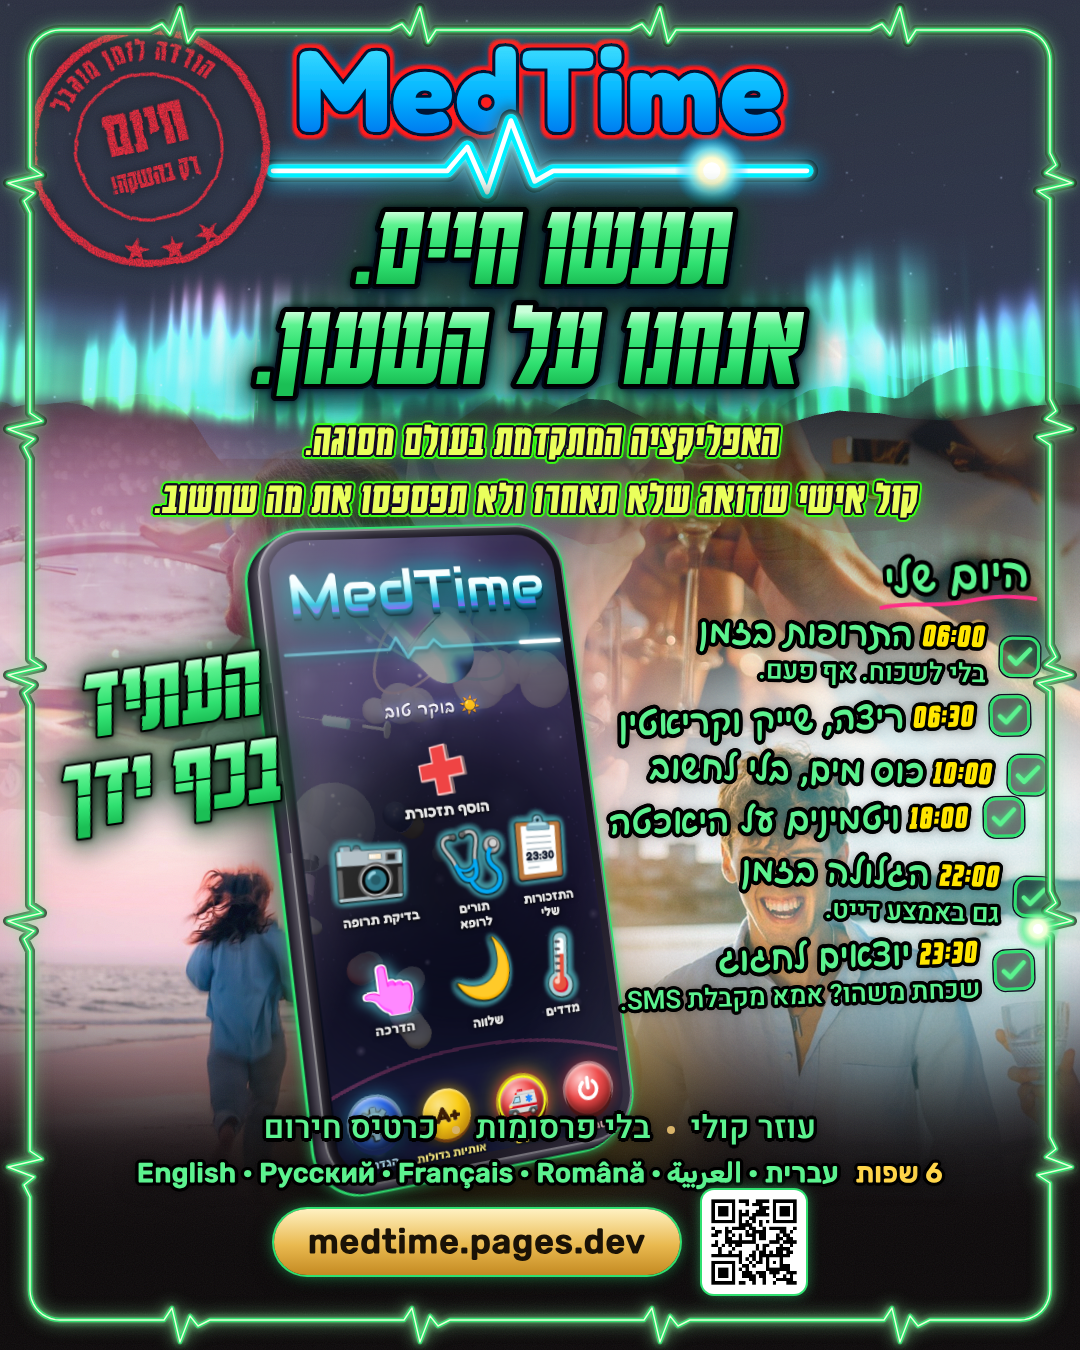
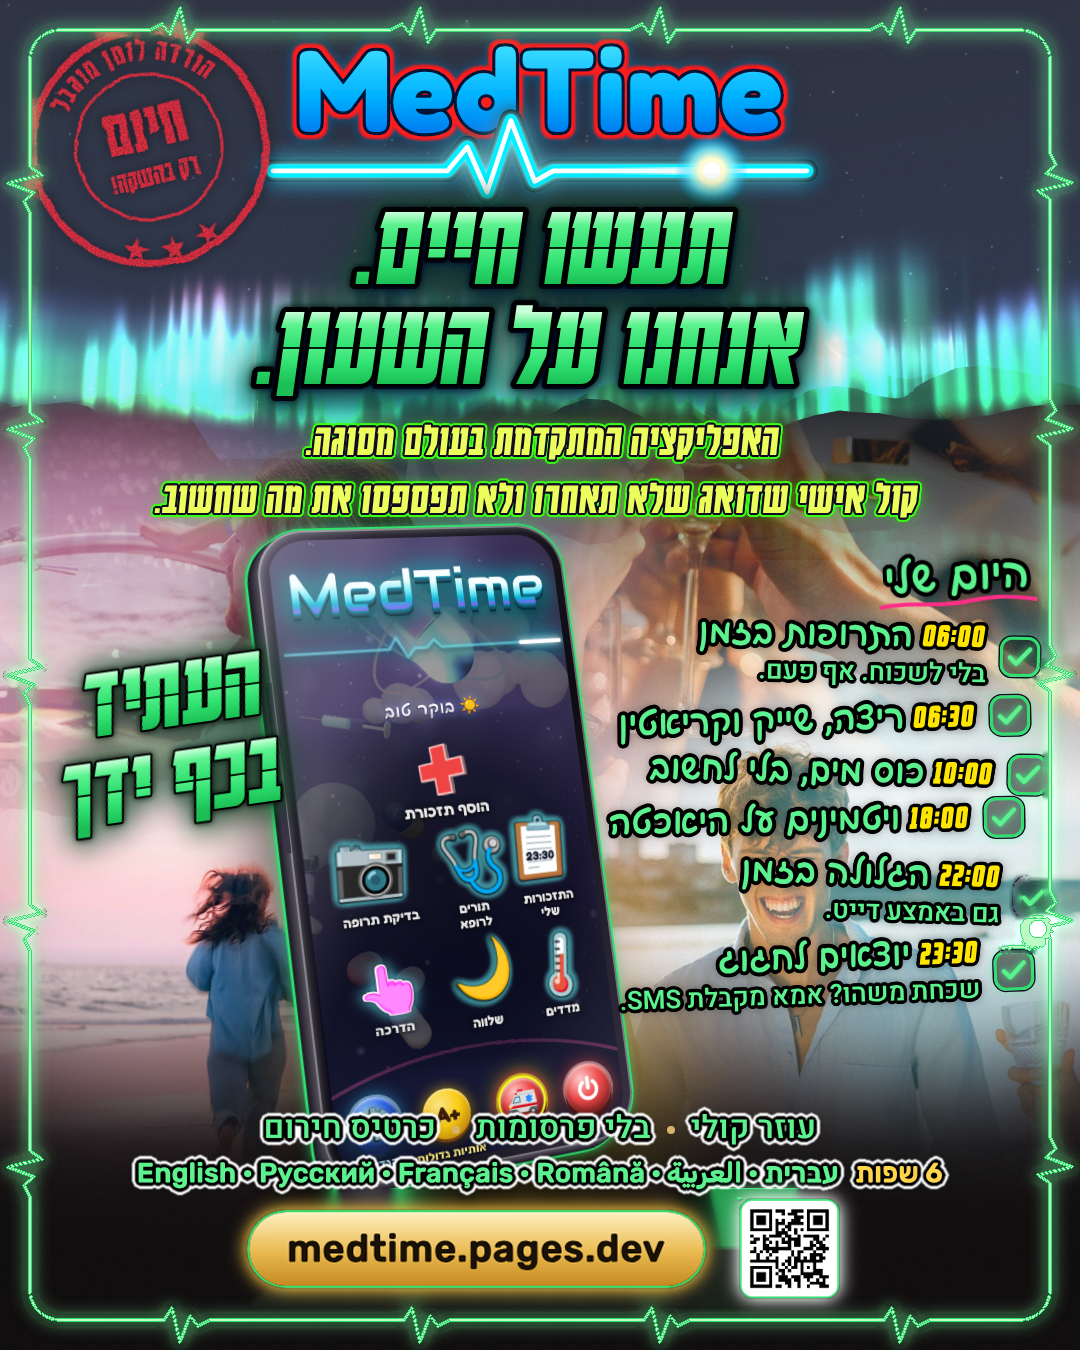
Ad: thinner frame, bigger URL+QR, white outline on bottom rows; signed SYNC-LOG [skip ci]
Account: main · thread 'MedTime – שיחה חדשה'

Claude-Session: https://claude.ai/code/session_01VsxPbo6X9KYMbXyBhgnXSS

diff --git a/media/ads/src/premium_fix1.py b/media/ads/src/premium_fix1.py
@@ -1,0 +1,89 @@
+# Edits media/ads/MedTime-ad-premium.png in place (Roni's requests 2026-10-23):
+# 1) thinner neon frame, 2) URL pill + QR bigger and glowing, below the language row,
+# 3) white outline around the letters of the two bottom text rows.
+# Input: the PNG from commit ddc63a0. Run: python3 premium_fix1.py IN.png OUT.png
+import sys, numpy as np, cv2
+from scipy import ndimage as nd
+src, out = sys.argv[1], sys.argv[2]
+img = cv2.imread(src)[:, :, ::-1].astype(np.float32)  # RGB
+H, W = img.shape[:2]
+a = img.astype(int); r, g, b = a[..., 0], a[..., 1], a[..., 2]
+
+def disk(n):
+    y, x = np.ogrid[-n:n+1, -n:n+1]; return x*x + y*y <= n*n
+
+# ---- 2) cut out pill and QR (before anything else changes) ----
+P = (264, 1199, 690, 1285)    # pill box incl. green rim
+Q = (697, 1186, 811, 1300)    # QR card
+pill = img[P[1]:P[3], P[0]:P[2]].copy(); qr = img[Q[1]:Q[3], Q[0]:Q[2]].copy()
+def shape_alpha(c):
+    lum = c.mean(2); m = lum > 70; m = nd.binary_fill_holes(m)
+    m = nd.binary_opening(m, disk(1))
+    return cv2.GaussianBlur(m.astype(np.float32), (3, 3), 0)
+pa, qa = shape_alpha(pill), shape_alpha(qr)
+
+# ---- 3) text masks of the two bottom rows (before inpainting) ----
+rows = np.zeros((H, W), bool); rows[1108:1194, 90:1000] = True
+green = (np.abs(a - [92, 242, 143]).sum(2) < 60) & rows
+yrow = np.zeros((H, W), bool); yrow[1155:1194, 840:960] = True
+yellow = (np.abs(a - [255, 213, 74]).sum(2) < 60) & yrow
+txt = green | yellow
+tl, tn = nd.label(txt, np.ones((3, 3))); ts = nd.sum(txt, tl, range(1, tn+1))
+txt = np.isin(tl, np.nonzero(ts >= 6)[0] + 1)
+letters = nd.binary_dilation(txt, disk(4))          # fill + black outline
+
+# ---- 1) frame mask ----
+fm = ((g > 150) & (g - r > 40) & (g - b > 20)) | ((g > 235) & (r > 120) & (g - r > 30))
+lab, n = nd.label(fm, np.ones((3, 3)))
+frame = lab == (np.argmax(nd.sum(fm, lab, range(1, n+1))) + 1)
+core = frame & (r > 120) & (g > 235)
+
+# ---- inpaint old frame line + old pill/QR area ----
+hole = nd.binary_dilation(frame, disk(1)) | (nd.binary_dilation(frame, disk(5)) & (g - r > 12) & (g - b > 0))
+area = np.zeros((H, W), bool); area[1189:1306, 250:830] = True
+oldglow = (g - r > 25) & (g > 60)
+hole |= area & ~letters
+u8 = np.clip(img, 0, 255).astype(np.uint8)[:, :, ::-1]
+fixed = cv2.inpaint(u8, hole.astype(np.uint8)*255, 6, cv2.INPAINT_TELEA)[:, :, ::-1].astype(np.float32)
+# keep the old frame where it lies inside the pill/QR area (bottom line), it is redrawn below
+img = fixed
+
+def over(base, col, alpha):
+    al = alpha[..., None]; return base*(1-al) + np.array(col, np.float32)*al
+
+# new thin frame: soft glow + 2px white core with 1px green rims
+cf = core.astype(np.float32)
+glow = cv2.GaussianBlur(nd.binary_dilation(core, disk(1)).astype(np.float32), (0, 0), 5) * 0.9
+img = img + np.array([40, 220, 110], np.float32)[None, None]*np.clip(glow, 0, 1)[..., None]*0.55
+img = over(img, (46, 224, 112), nd.binary_dilation(core, disk(1)).astype(np.float32))
+img = over(img, (190, 250, 195), cf)
+
+# ---- 3) white ring around letters, then put the letters back on top ----
+ring_out = nd.binary_dilation(letters, disk(3))
+ringA = cv2.GaussianBlur(ring_out.astype(np.float32), (3, 3), 0)
+orig = cv2.imread(src)[:, :, ::-1].astype(np.float32)
+img = over(img, (255, 255, 255), ringA)
+la = cv2.GaussianBlur(letters.astype(np.float32), (3, 3), 0)
+img = img*(1-la[..., None]) + orig*la[..., None]
+
+# ---- 2) paste bigger pill + QR with glow ----
+def paste(img, c, al, x, y, s, gcol, gstr):
+    h, w = c.shape[:2]; nw, nh = int(round(w*s)), int(round(h*s))
+    c2 = cv2.resize(c, (nw, nh), interpolation=cv2.INTER_CUBIC); a2 = cv2.resize(al, (nw, nh))
+    big = np.zeros((H, W), np.float32); big[y:y+nh, x:x+nw] = a2
+    gl = np.clip(cv2.GaussianBlur(big, (0, 0), 9)*gstr, 0, 1)
+    img = over(img, gcol, gl*0.85)
+    reg = img[y:y+nh, x:x+nw]; img[y:y+nh, x:x+nw] = reg*(1-a2[..., None]) + c2*a2[..., None]
+    return img, nh
+s = 1.0
+top = 1197                               # languages row ends ~1192 incl. new ring
+qs = (1302 - top) / qr.shape[0]          # QR fills 1197..1302
+ps = 1.12
+pw = int(round(pill.shape[1]*ps)); qw = int(round(qr.shape[1]*qs)); gap = 22
+x0 = (W - (pw + gap + qw)) // 2
+ph = int(round(pill.shape[0]*ps)); py = top + ((1302 - top) - ph)//2
+img, _ = paste(img, pill, pa, x0, py, ps, (255, 200, 70), 1.6)
+img, _ = paste(img, qr, qa, x0 + pw + gap, top, qs, (255, 255, 255), 1.6)
+
+cv2.imwrite(out, np.clip(img, 0, 255).astype(np.uint8)[:, :, ::-1])
+print('ok', x0, pw, qw, ph, py)

diff --git a/handoff/HANDOFF.md b/handoff/HANDOFF.md
@@ -25,6 +25,7 @@
 17. M-318: הכתובת הרשמית https://medtime.pages.dev (Cloudflare Pages מתוך docs; השורש פותח את דף ההורדה). Cloudflare מדלג על commit עם [skip ci], אז שינוי ב-docs נדחף בלי זה. פרסומת ניאון/זוהר (ים, יאכטה, זיקוקים, 6 שפות, מסגרת זהב): MedTime-ad.mp4, MedTime-ad-neon.png, MedTime-ad-neon-phone.png, whatsapp_ad_he.txt ב-/mnt/project-files/medtime-share/. מקור: scratchpad/t/anim.html. ממתין מרוני: מייל ל"יצירת קשר".
 18. מודעת פרימיום (2026-10-23, אחרי שרוני פסל את הניאון): MedTime-ad-premium.png ב-/mnt/project-files/medtime-share/. צילומי Pexels אמיתיים (חינם, בלי קרדיט) דרך workflow ad-photos.yml (tools/ad_photos.py, '_pexels' עם מספרי תמונות) לענף adimg. Unsplash ו-Openverse חסומים מ-Actions. רוני רוצה: יוקרה, לא עמוס, בלי אימוג'ים או איורים, קריצה לכל גיל. מצב 2026-10-23 13:03Z: מוטו ו"העתיד בכף ידך" בסגנון צג שעון דיגיטלי (Karantina 700, נטוי, ירוק #2fe070 עם פס סגמנט דק וקו שחור דק), לוגו עם הילה אדומה דקה, פס אקג טורקיז זרחני עם נקודה זוהרת, כל כיתוב הרשימה והשורות התחתונות בירוק #5cf28f עם קו כהה (רוני בחר ירוק), שעות ו'6 שפות' בזהב, הילה ירוקה דקה סביב הטלפון. הסרטון: רוני אמר לעזוב אותו כרגע, לא להעלות עד שיבקש. מקור: scratchpad/t/premium.html (נבנה מ-premium_v6_brush.html עם lcd.py).
 
+20. 2026-10-23 ~14:05: מודעה עודכנה (עריכה על התמונה עצמה): מסגרת דקה, כתובת+ברקוד גדולים ובולטים מתחת לשורת השפות, לבן סביב האותיות בשורות התחתונות. ממתין לאישור רוני. כל שינוי נרשם עם חתימה ב-handoff/SYNC-LOG.md (כלל חדש לשני החשבונות). ממתין גם: מייל ל"יצירת קשר".
 19. מודעה, 2026-10-23 13:43 (שיחה חדשה ממשיכה מכאן): התמונה האחרונה שמורה במאגר media/ads/MedTime-ad-premium.png (קובץ המקור premium.html אבד בחשבון השני; העריכה היא על התמונה, או בנייה מחדש מצילומי ענף adimg). רוני ביקש: (1) להבליט את שורת הכתובת medtime.pages.dev ואת הברקוד, בלי לעלות על שורת השפות; (2) מסגרת ניאון דקה יותר; (3) קו לבן סביב האותיות בשורות התחתונות. ממתין גם: מייל ל"יצירת קשר". כלל: כל קובץ פלט נשמר גם במאגר (media/ads/).
 
 ## ידוע

diff --git a/CLAUDE.md b/CLAUDE.md
@@ -27,6 +27,7 @@ Every new rule the owner sets is added here right away.
 - AUTO HANDOFF (owner 2026-10-23, standing rule): after every batch of changes Claude updates handoff/HANDOFF.md (its LAST fenced block is always the Hebrew start prompt) and pushes, without asking. The PC gets it by itself (docs sync), and the desktop shortcut "MedTime - continue" (handoff/continue.ps1, M-319) copies that start prompt to the clipboard, opens claude.ai and HANDOFF.md. If a permanent permission is ever needed for this, ask Roni once.
 - SWITCH REMINDER (owner 2026-10-23): whenever Roni asks about or announces moving to the second Claude account, first push an up-to-date HANDOFF.md, then remind him in Hebrew, 1-2-3: double-click desktop shortcut "MedTime - continue", in the second account click the message box, Ctrl+V, Enter.
 - AUTO NEW THREAD (owner 2026-10-23, every project, all accounts): when a conversation gets long / token-heavy (~60% context), Claude does it by itself without asking: push a fresh handoff/HANDOFF.md, ask the coordinator to open a new main thread from the same point, and tell Roni in one Hebrew line.
+- SIGNED LOG (owner 2026-10-23, both accounts): every change (code, docs, ads, PC files) gets an entry at the TOP of handoff/SYNC-LOG.md: time, which account + thread/session, exactly what changed, files, and how to undo (commit hash). Commit messages also name the account. Never rebuild or guess a design from scratch: continue from the exact existing file; source files (html/py/assets) always go to the repo (media/ads/src/).
 - SHARED OUTPUTS (2026-10-23): every output file Claude makes (ads, images, videos, their source html) is also committed to the repo (folder media/ads/, [skip ci]), not only to /mnt/project-files or a scratchpad, because the second Claude account cannot see this account's folders.
 - DOCS AUTO-SYNC (owner 2026-10-22): the PC watcher downloads handoff/HANDOFF.md (to C:\Projects\MedTime\HANDOFF.md) and STATE.md, CHANGES.md, CLAUDE.md, project-memory.md (to C:\Projects\MedTime\docs\) from GitHub main every 5 minutes (log line 'DOCS UPDATED'). So pushing the docs to main is enough; no manual copy to the PC needed. Private files (testers.csv) never go to the public repo; copy them to the PC directly.
 

diff --git a/handoff/SYNC-LOG.md b/handoff/SYNC-LOG.md
@@ -1,0 +1,17 @@
+# יומן שינויים משותף לשני החשבונות (SYNC-LOG)
+
+כל שינוי נרשם כאן עם חתימה: מתי, איזה חשבון/שיחה, מה בדיוק, אילו קבצים, ואיך להחזיר אחורה.
+החדש ביותר למעלה. להחזרה: `git revert <commit>` או לקחת את הקובץ מה-commit הקודם.
+
+## 2026-10-23 ~14:05 · חשבון ראשי · שיחה "📌 MedTime – שיחה חדשה" (session_01VsxPbo6X9KYMbXyBhgnXSS)
+- מה: מודעת הפרימיום. עריכה ישירה על התמונה הקיימת (מ-commit ddc63a0), בלי לבנות מחדש:
+  1. מסגרת הניאון דקה יותר (קו מרכזי 2px + שוליים ירוקים 1px, הילה רכה; הקו העבה הישן נמחק).
+  2. כפתור הכתובת medtime.pages.dev גדול פי 1.12 עם הילה זהובה; הברקוד עם הילה לבנה; שניהם מתחת לשורת השפות בלי לגעת בה.
+  3. קו לבן סביב האותיות בשתי השורות התחתונות ("עוזר קולי..." ושורת השפות).
+- קבצים: media/ads/MedTime-ad-premium.png (הוחלף), media/ads/src/premium_fix1.py (הסקריפט שעשה את זה, אפשר להריץ שוב על ddc63a0).
+- להחזרה: לקחת את media/ads/MedTime-ad-premium.png מ-ddc63a0.
+- הערה: קובץ העיצוב המקורי premium.html נבנה בחשבון השני ולא נשמר במאגר. אם הוא עדיין קיים שם, לשמור אותו ב-media/ads/src/.
+
+## 2026-10-23 ~13:50 · חשבון ראשי · אותה שיחה
+- מה: כללים חדשים ב-CLAUDE.md: AUTO NEW THREAD (שיחה חדשה אוטומטית ב~60% טוקנים), SIGNED LOG (היומן הזה).
+- קבצים: CLAUDE.md. להחזרה: git revert d42be4b 1d5dac4.
